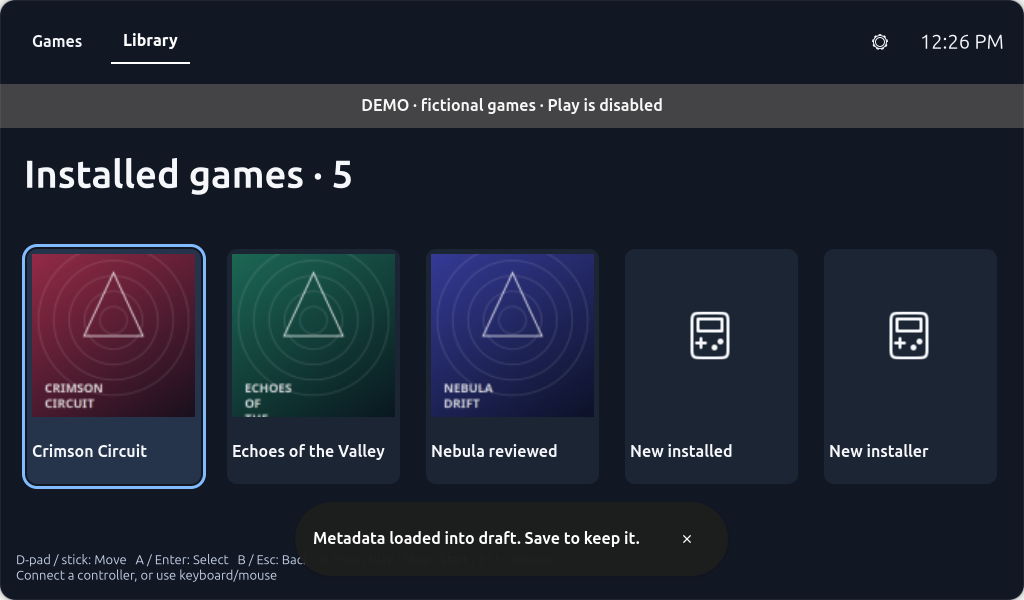
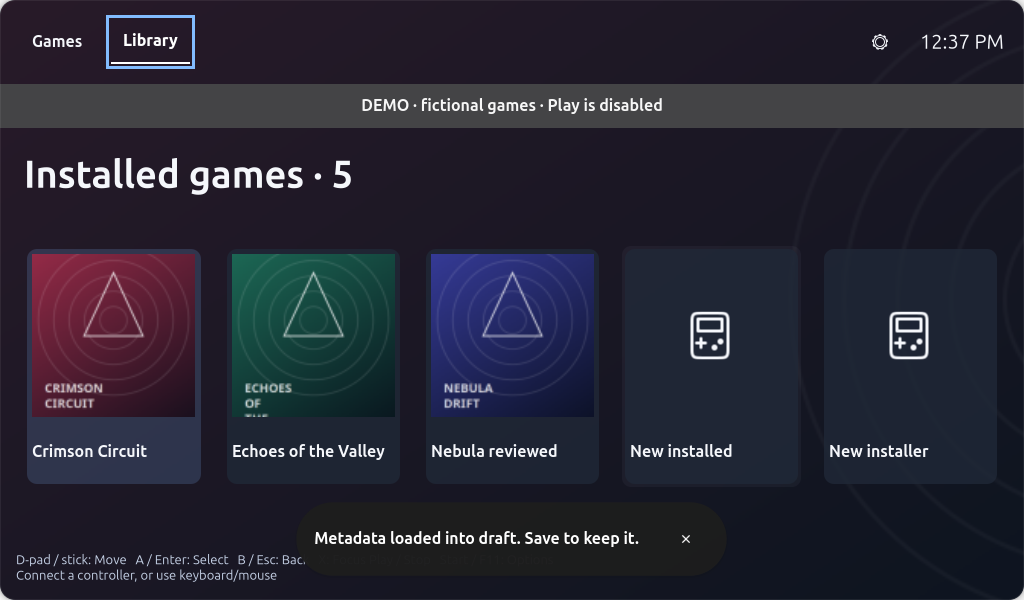
Keep fullscreen header navigation stable and preview Library backgrounds

diff --git a/game_library/app.py b/game_library/app.py
@@ -153,7 +153,8 @@ class Window(Adw.ApplicationWindow):
 
     def set_tv_section(self,section):
         if not self.tv_mode:return
-        self.tv_section=section;self.show_library()
+        self.section_tab_focus=self.tv_games_tab if section=='games' else self.tv_library_tab
+        self.tv_section=section;self.show_library();self.section_tab_focus=None
 
     def tv_tile(self,game,grid=False):
         tile=button(game['title'],lambda g=game:self.show_game(g));tile.add_css_class('tv-card');tile.set_valign(Gtk.Align.START);tile.set_tooltip_text('Open '+game['title'])
@@ -210,7 +211,7 @@ class Window(Adw.ApplicationWindow):
         self.tv_hints=label('D-pad / stick: Move   A / Enter: Select   B / Esc: Back   X: Focus Play / Stop   Start / F11: Options','tv-hints',wrap=True,xalign=0);margins(self.tv_hints,16);tv_content.append(self.tv_hints)
         game=next((g for g in self.tv_games if g['id']==self.tv_selected_id),self.tv_games[0]);self.select_tv_game(game)
         self.restrict_tv_focus(self.body)
-        GLib.idle_add(lambda:(self.focus_tv_card(),False)[-1])
+        GLib.idle_add(lambda tab=getattr(self,'section_tab_focus',None):(tab.grab_focus() if tab else self.focus_tv_card(),False)[-1])
 
     def show_tv_grid(self):
         title=label('Installed games · '+str(len(self.tv_games)),'tv-title',xalign=0);margins(title,24);self.body.append(title)
@@ -224,7 +225,7 @@ class Window(Adw.ApplicationWindow):
         self.tv_hints=label('D-pad / stick: Move   A / Enter: Game details   B / Esc: Games   X: Focus Play / Stop','tv-hints',wrap=True,xalign=0);margins(self.tv_hints,16);self.body.append(self.tv_hints)
         if self.tv_games:
             game=next((g for g in self.tv_games if g['id']==self.tv_selected_id),self.tv_games[0]);self.select_tv_game(game)
-            GLib.idle_add(lambda:(self.focus_tv_card(),False)[-1])
+            GLib.idle_add(lambda tab=getattr(self,'section_tab_focus',None):(tab.grab_focus() if tab else self.focus_tv_card(),False)[-1])
         self.restrict_tv_focus(self.body)
 
     def restrict_tv_focus(self,widget):
@@ -291,6 +292,10 @@ class Window(Adw.ApplicationWindow):
         for gid,tile in self.tv_tiles:
             if gid==game['id']:tile.add_css_class('selected-game')
             else:tile.remove_css_class('selected-game')
+        name=game['artwork'].get('hero') or game['artwork'].get('landscape')
+        path=self.library.art_dir/name if name else None
+        self.backdrop.set_filename(str(path)) if path and path.is_file() else self.backdrop.set_paintable(None)
+        self.backdrop.set_opacity(.22 if self.tv_section=='library' else .4)
         if self.tv_section=='library':return
         self.tv_selected_title.set_text(game['title']);self.tv_title.set_text(game['title']);self.tv_description.set_text(description_excerpt(game['description']))
         self.tv_related.set_text(' · '.join(filter(None,(game.get('release_date'),game.get('genres')))))
@@ -350,6 +355,12 @@ class Window(Adw.ApplicationWindow):
             return
         if action in ('left','right','up','down','next','previous'):
             focus=self.focused_control(target)
+            header=[self.tv_games_tab,self.tv_library_tab,self.tv_menu]
+            if target is self and focus in header:
+                if action in ('left','right'):
+                    index=header.index(focus);index=max(0,min(len(header)-1,index+(1 if action=='right' else -1)));header[index].grab_focus();self.update_focus_outline();return
+                if action=='down' and self.game is None and self.tv_tiles:self.focus_tv_card();self.update_focus_outline();return
+                if action=='up':return
             if target is self and self.game is None and self.tv_section=='games' and self.tv_tiles and focus in [tile for _,tile in self.tv_tiles] and action in ('left','right'):
                 index=next(i for i,g in enumerate(self.tv_games) if g['id']==self.tv_selected_id)
                 index=(index+(1 if action=='right' else -1))%len(self.tv_games)

diff --git a/tools/ui_smoke.py b/tools/ui_smoke.py
@@ -215,7 +215,12 @@ with tempfile.TemporaryDirectory() as temp:
     navigate('back');settle();assert w.tv_section=='games'
     for _ in range(5):navigate('back');settle();assert w.tv_mode
     w.tv_games_tab.grab_focus();navigate('right');settle();assert w.focused_control(w) is w.tv_library_tab
-    navigate('select');pump_until(lambda:w.tv_section=='library');settle()
+    navigate('right');settle();assert w.focused_control(w) is w.tv_menu
+    navigate('left');settle();assert w.focused_control(w) is w.tv_library_tab
+    navigate('select');pump_until(lambda:w.tv_section=='library');settle();assert w.focused_control(w) is w.tv_library_tab
+    navigate('down');settle();assert w.focused_control(w) in [tile for _,tile in w.tv_tiles]
+    library_game=next(g for g in w.tv_games if g['artwork'].get('hero'));w.select_tv_game(library_game)
+    assert w.backdrop.get_file().get_path()==str(library.art_dir/library_game['artwork']['hero']) and w.backdrop.get_opacity()>0
     w.set_tv_section('games');settle()
     rail_y=w.tv_scroll.get_allocation().y
     for selected in w.tv_games:

diff --git a/game_library/__init__.py b/game_library/__init__.py
@@ -1,3 +1,3 @@
 """Standalone installed-game library and UMU launcher."""
 
-__version__ = "0.4.4"
+__version__ = "0.4.5"

diff --git a/docs/VALIDATION.md b/docs/VALIDATION.md
@@ -63,3 +63,7 @@ Native checks cover repeated Back remaining fullscreen, removal of Home and desk
 Regression coverage includes bounded descriptions, complete source preservation, full-description Game Info, focused-button CSS, cover/Play layout and local download status placement. Native screenshots use synthetic fixtures; real games are not launched.
 
 Final 0.4.4 validation: 44 core tests and the native GUI smoke pass. Header focus is separate from activation; game-card activation and X do not launch. Play/Stop and cover bounds match; full-description dialog and shortened views preserve source text. Physical controller/TV acceptance remains a user check.
+
+
+## 0.4.5 verification
+44 core tests pass. Final native smoke verifies Games → Library → Settings direction navigation, section activation retaining header focus, Down entering the cards, and the Library hero changing without extra metadata panels. Native synthetic screenshots were inspected; compilation, lint and whitespace checks pass. No real game was launched.

diff --git a/docs/DESIGN.md b/docs/DESIGN.md
@@ -66,3 +66,7 @@ Home and detail descriptions display at most 300 characters, ending with ... whe
 Fullscreen header tabs/gear activate only on A/click; game-card focus changes the preview, while card activation opens detail without launching. Only explicit Play/Stop button activation executes/stops an operation. X focuses that button without executing it.
 
 The desktop header has no Fullscreen utility action; use the tray mode commands. Missing game-file configuration is labeled Setup. Fullscreen setup remains a desktop-only management task.
+
+
+## Header navigation and Library background — 0.4.5
+Left/right on the fullscreen header stays within Games, Library and Settings. Activating a section keeps focus on its tab; Down moves into the game cards. Library remains a grid-only view: focused-card changes update just the subdued hero background, without adding metadata panels. Game icons never launch an operation.

diff --git a/docs/ROADMAP.md b/docs/ROADMAP.md
@@ -34,3 +34,7 @@ Home and detail descriptions display at most 300 characters, ending with ... whe
 Fullscreen header tabs/gear activate only on A/click; game-card focus changes the preview, while card activation opens detail without launching. Only explicit Play/Stop button activation executes/stops an operation. X focuses that button without executing it.
 
 The desktop header has no Fullscreen utility action; use the tray mode commands. Missing game-file configuration is labeled Setup. Fullscreen setup remains a desktop-only management task.
+
+
+## Header navigation and Library background — 0.4.5
+Left/right on the fullscreen header stays within Games, Library and Settings. Activating a section keeps focus on its tab; Down moves into the game cards. Library remains a grid-only view: focused-card changes update just the subdued hero background, without adding metadata panels. Game icons never launch an operation.

diff --git a/README.md b/README.md
@@ -4,7 +4,7 @@ A native Linux library for preinstalled games and Windows installers, metadata/a
 
 ![Game details](docs/screenshots/details-dark.png)
 
-## Version 0.4.4
+## Version 0.4.5
 
 - Metadata-first **Add Game**: search by title/ID, select, then automatically save metadata/artwork and open details. No executable or runtime settings required.
 - Persistent installation status/logs; cancel/retry keeps installed files. Select and confirm the game executable after setup. Setup exit alone never means the game is ready.
